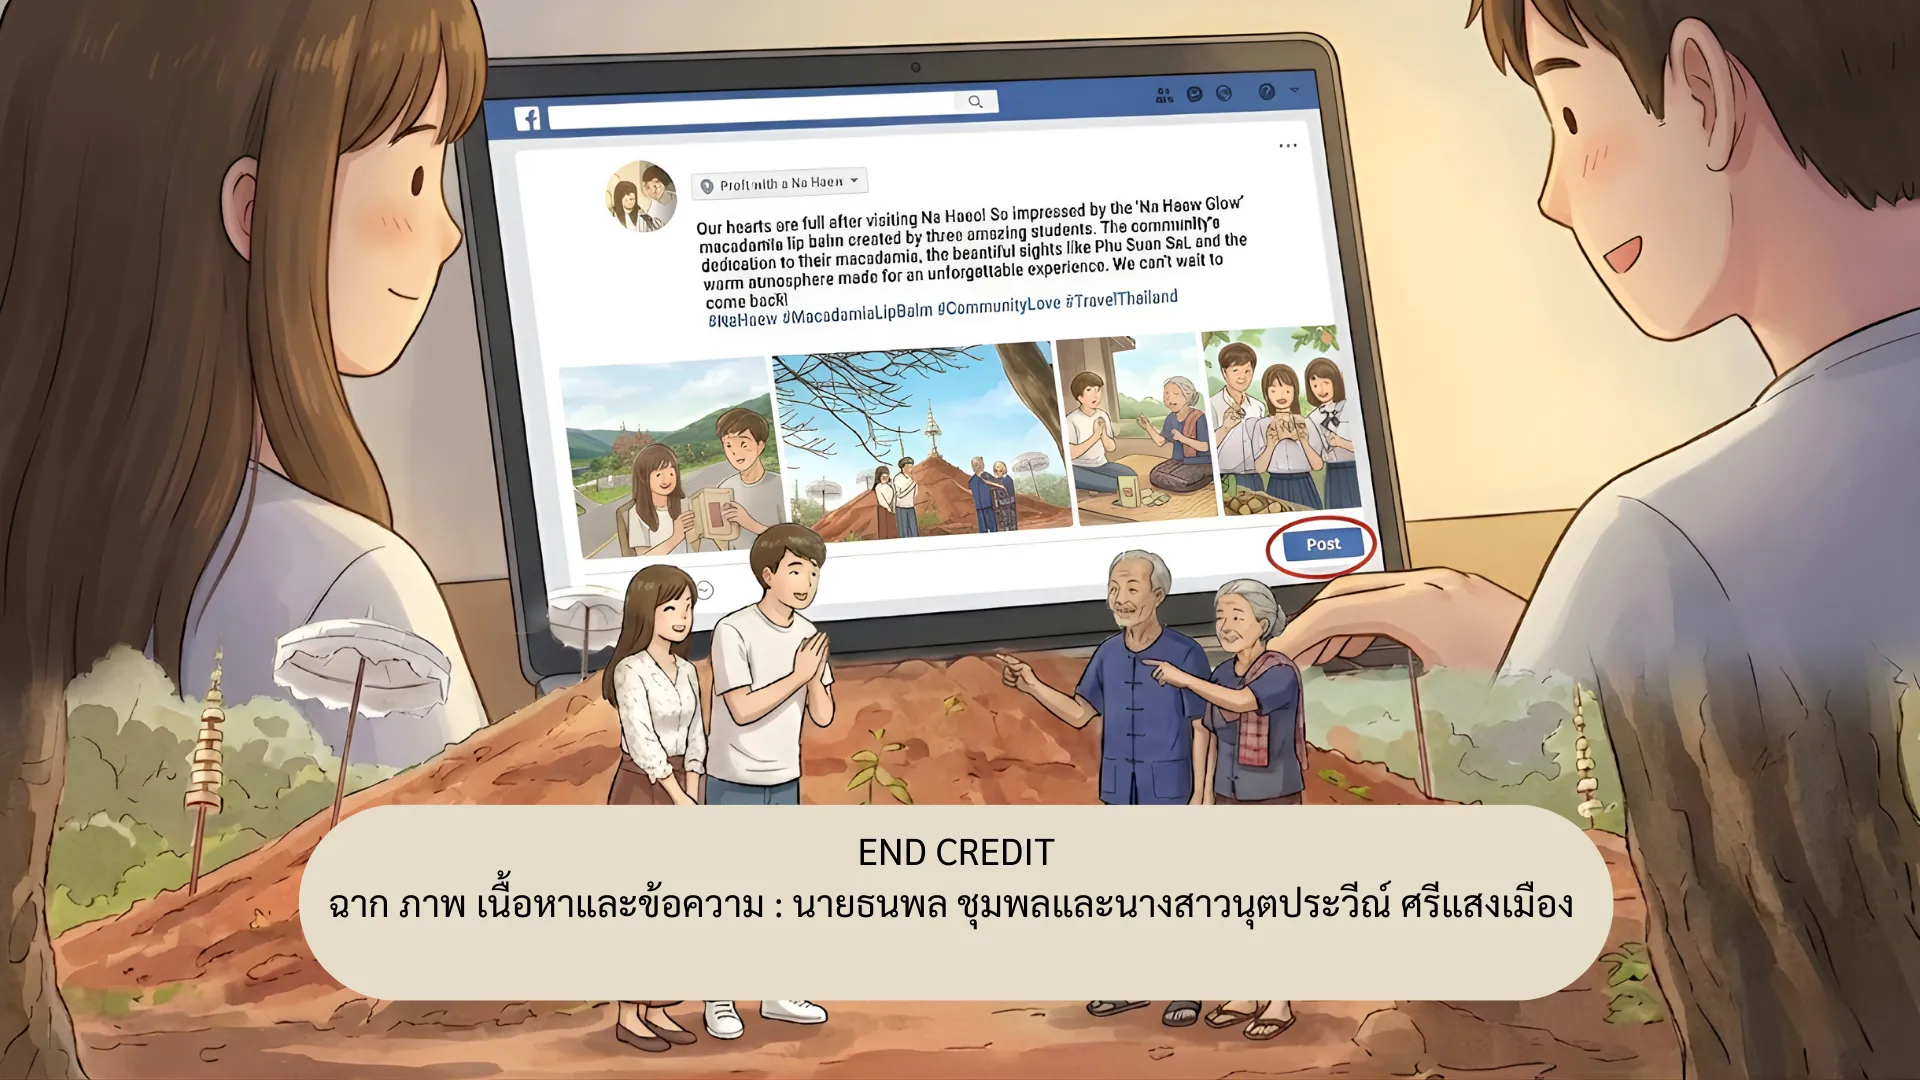
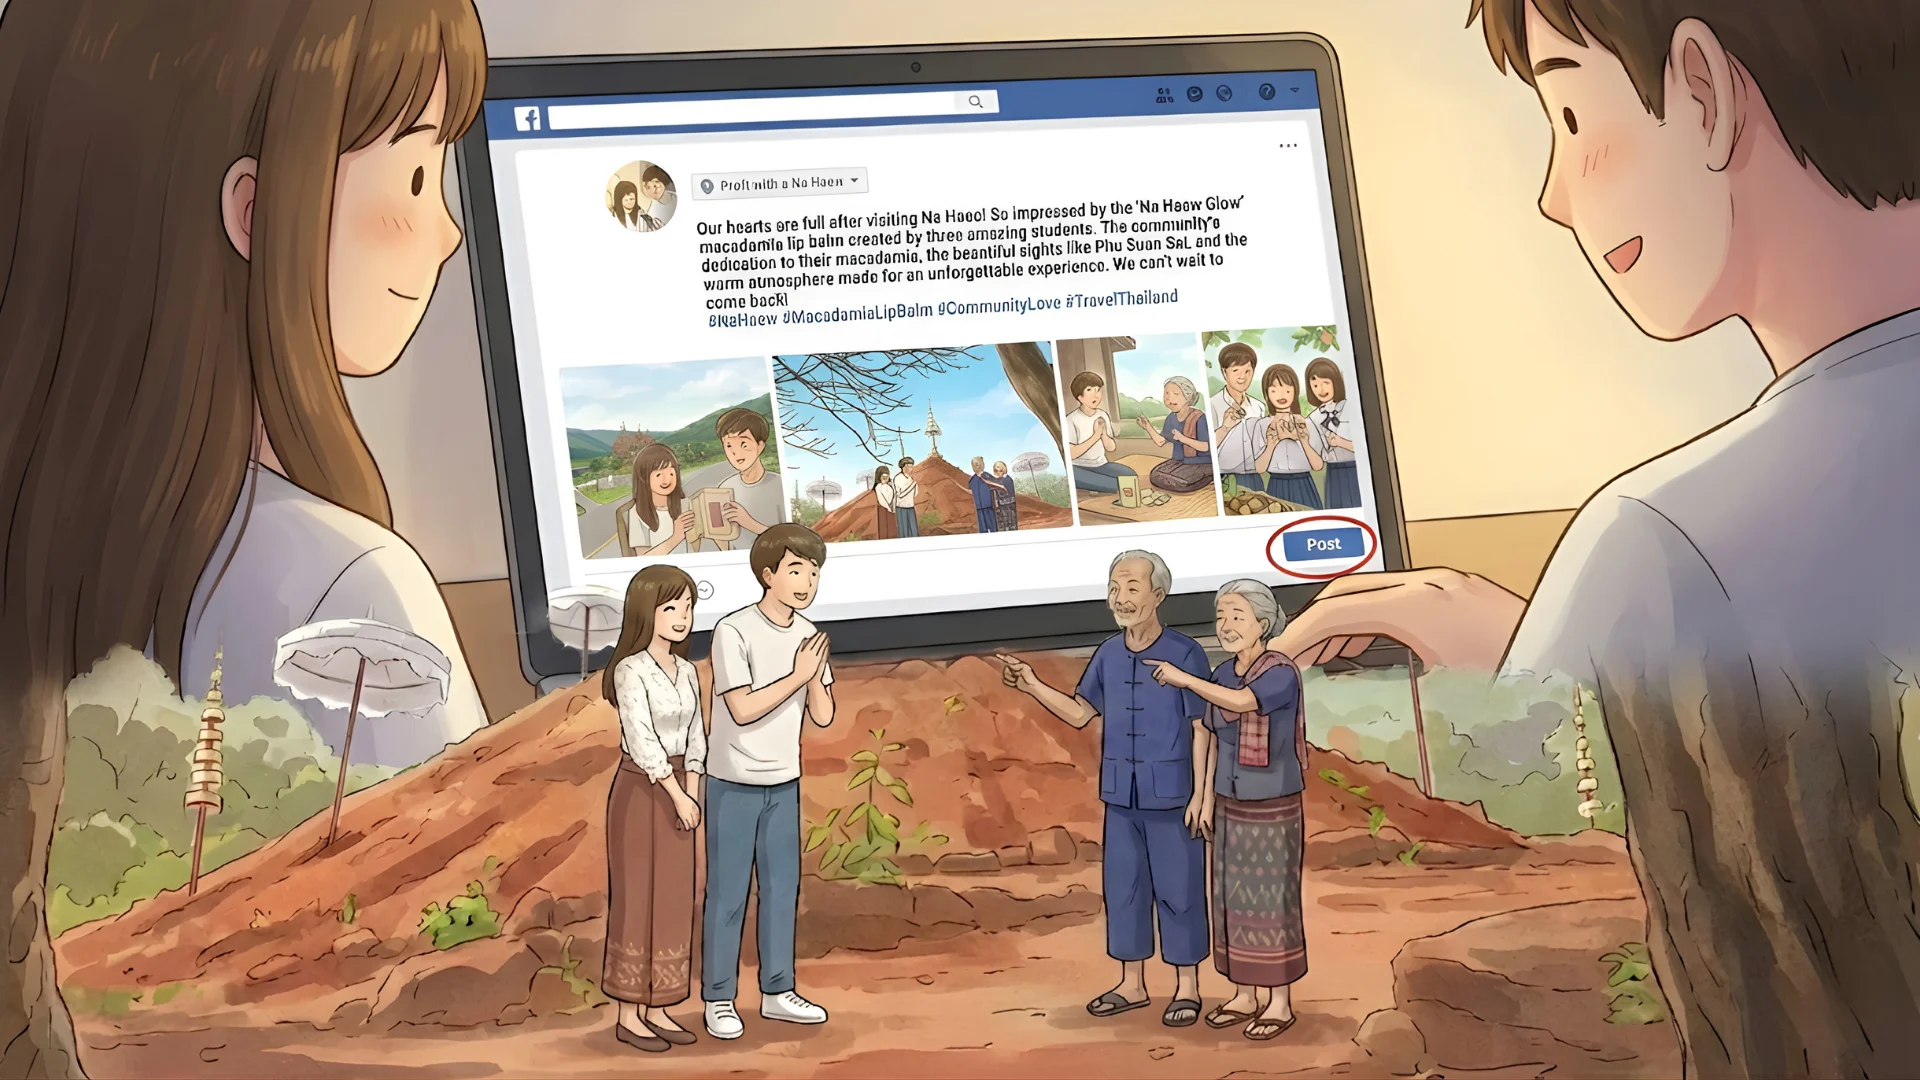
finish

Changed region(s): [[0.1562, 0.7333, 0.8438, 0.9472], [0.4375, 0.1833, 0.625, 0.2444]]

diff --git a/frontend/src/pages/StoryPage.jsx b/frontend/src/pages/StoryPage.jsx
@@ -1,7 +1,7 @@
 import { useState, useRef, useEffect, useCallback } from 'react';
 
 // Total number of scenes
-const TOTAL_SCENES = 19;
+const TOTAL_SCENES = 20;
 
 // Get image path (WebP version)
 const getImagePath = (sceneNum) => `/images/scene/scene/${sceneNum}.webp`;
@@ -214,6 +214,7 @@ export default function StoryPage() {
     const [showControls, setShowControls] = useState(true);
     const [activeHotspot, setActiveHotspot] = useState(null);
     const [zoomedImage, setZoomedImage] = useState(null);
+    const [showHotspotTutorial, setShowHotspotTutorial] = useState(true);
     const touchStartX = useRef(0);
     const hideControlsTimer = useRef(null);
     const containerRef = useRef(null);
@@ -397,43 +398,114 @@ export default function StoryPage() {
             onMouseMove={handleInteraction}
             onClick={handleInteraction}
         >
-            {/* Scene Image with Slide Animation + Swipe Offset */}
-            <div
-                className={`absolute inset-0 flex items-center justify-center transition-transform ${isSwiping ? 'duration-0' : 'duration-300'} ease-out ${slideDirection}`}
-                style={{ transform: isSwiping ? `translateX(${swipeOffset}px)` : undefined }}
-            >
-                <img
-                    src={getImagePath(currentScene)}
-                    alt={`Scene ${currentScene}`}
-                    className="w-full h-full object-contain"
-                    loading="lazy"
-                />
-
-                {/* Hotspots for current scene */}
-                {currentHotspots.map((hotspot) => (
-                    <button
-                        key={hotspot.id}
-                        onClick={(e) => handleHotspotClick(e, hotspot)}
-                        className="absolute cursor-pointer group z-30"
-                        style={{
-                            top: hotspot.position.top,
-                            left: hotspot.position.left,
-                            width: hotspot.size.width,
-                            height: hotspot.size.height,
-                        }}
-                    >
-                        {/* Water Ripple Effect - responsive size */}
-                        <div className="absolute inset-0 flex items-center justify-center pointer-events-none">
-                            {/* Ripple rings - smaller base size for portrait */}
-                            <div className="absolute w-12 h-12 sm:w-16 sm:h-16 rounded-full border-2 sm:border-4 border-white/50 backdrop-blur-[1px] animate-ripple-1"></div>
-                            <div className="absolute w-12 h-12 sm:w-16 sm:h-16 rounded-full border-2 sm:border-4 border-white/40 backdrop-blur-[1px] animate-ripple-2"></div>
-                            <div className="absolute w-12 h-12 sm:w-16 sm:h-16 rounded-full border-2 sm:border-4 border-white/30 animate-ripple-3"></div>
-                            {/* Center pulse */}
-                            <div className="relative w-4 h-4 sm:w-5 sm:h-5 rounded-full bg-white/70 shadow-lg pointer-events-auto animate-pulse-glow"></div>
+            {/* Scene 20 - Special End Credits Layout */}
+            {currentScene === 20 ? (
+                <div
+                    className={`absolute inset-0 flex items-center justify-center bg-gradient-to-b from-[#1a1a2e] to-[#16213e] transition-transform ${isSwiping ? 'duration-0' : 'duration-300'} ease-out ${slideDirection}`}
+                    style={{ transform: isSwiping ? `translateX(${swipeOffset}px)` : undefined }}
+                >
+                    <div className="flex flex-col md:flex-row items-center justify-center gap-6 md:gap-12 p-6 max-w-5xl w-full">
+                        {/* Product Image - Portrait */}
+                        <div className="flex-shrink-0">
+                            <img
+                                src={getImagePath(20)}
+                                alt="Na Haeo Glow Product"
+                                className="h-[50vh] md:h-[70vh] w-auto object-contain rounded-2xl shadow-2xl"
+                            />
                         </div>
-                    </button>
-                ))}
-            </div>
+
+                        {/* End Credits */}
+                        <div className="text-white text-center md:text-left space-y-6">
+                            <h2 className="text-2xl md:text-3xl font-bold text-transparent bg-clip-text bg-gradient-to-r from-[#FFD1DC] to-[#FFB6C1]">
+                                Credits
+                            </h2>
+
+                            {/* Team 1 */}
+                            <div className="space-y-2">
+                                <h3 className="font-semibold text-[#FFB6C1] text-sm md:text-base">ทีมออกแบบบรรจุภัณฑ์และสื่อประชาสัมพันธ์</h3>
+                                <div className="text-xs md:text-sm text-gray-300 space-y-1">
+                                    <p>นายณัฐวุฒิ นาพันผล : Web Dev</p>
+                                    <p>นายธนพล ชุมพล : ผู้จัดทำ Story</p>
+                                    <p>นางสาวนุตประวีณ์ ศรีแสงเมือง : จัดทำภาพ</p>
+                                </div>
+                            </div>
+
+                            {/* Team 2 */}
+                            <div className="space-y-2">
+                                <h3 className="font-semibold text-[#FFB6C1] text-sm md:text-base">ทีมวิจัยและพัฒนาผลิตภัณฑ์</h3>
+                                <div className="text-xs md:text-sm text-gray-300 space-y-1">
+                                    <p>นางสาวปิยะธิดาภรณ์ จันทะคุณ</p>
+                                    <p>นางสาวสิรภัทร แก้วสุวรรณ</p>
+                                    <p>นางสาวสุวิเนธ จันทะคุณ</p>
+                                </div>
+                            </div>
+
+                            <div className="pt-4">
+                                <p className="text-xs text-gray-500">© 2026 Na Haeo Glow</p>
+                            </div>
+                        </div>
+                    </div>
+                </div>
+            ) : (
+                /* Normal Scene Layout */
+                <div
+                    className={`absolute inset-0 flex items-center justify-center transition-transform ${isSwiping ? 'duration-0' : 'duration-300'} ease-out ${slideDirection}`}
+                    style={{ transform: isSwiping ? `translateX(${swipeOffset}px)` : undefined }}
+                >
+                    <img
+                        src={getImagePath(currentScene)}
+                        alt={`Scene ${currentScene}`}
+                        className="w-full h-full object-contain"
+                        loading="lazy"
+                    />
+
+
+                    {/* Hotspots for current scene */}
+                    {currentHotspots.map((hotspot) => (
+                        <button
+                            key={hotspot.id}
+                            onClick={(e) => handleHotspotClick(e, hotspot)}
+                            className="absolute cursor-pointer group z-30"
+                            style={{
+                                top: hotspot.position.top,
+                                left: hotspot.position.left,
+                                width: hotspot.size.width,
+                                height: hotspot.size.height,
+                            }}
+                        >
+                            {/* Water Ripple Effect - responsive size */}
+                            <div className="absolute inset-0 flex items-center justify-center pointer-events-none">
+                                {/* Ripple rings - smaller base size for portrait */}
+                                <div className="absolute w-12 h-12 sm:w-16 sm:h-16 rounded-full border-2 sm:border-4 border-white/50 backdrop-blur-[1px] animate-ripple-1"></div>
+                                <div className="absolute w-12 h-12 sm:w-16 sm:h-16 rounded-full border-2 sm:border-4 border-white/40 backdrop-blur-[1px] animate-ripple-2"></div>
+                                <div className="absolute w-12 h-12 sm:w-16 sm:h-16 rounded-full border-2 sm:border-4 border-white/30 animate-ripple-3"></div>
+                                {/* Center pulse */}
+                                <div className="relative w-4 h-4 sm:w-5 sm:h-5 rounded-full bg-white/70 shadow-lg pointer-events-auto animate-pulse-glow"></div>
+                            </div>
+                        </button>
+                    ))}
+
+                    {/* Hotspot Tutorial - show on scene 2 */}
+                    {currentScene === 2 && showHotspotTutorial && currentHotspots.length > 0 && !activeHotspot && (
+                        <div
+                            className="absolute z-40 animate-bounce-slow"
+                            style={{
+                                top: 'calc(58% - 60px)',
+                                left: 'calc(42% + 20px)',
+                            }}
+                            onClick={() => setShowHotspotTutorial(false)}
+                        >
+                            <div className="bg-white/95 backdrop-blur-sm px-3 py-2 rounded-xl shadow-lg border border-pink-200 relative">
+                                <p className="text-sm font-medium text-gray-800 whitespace-nowrap">
+                                    👆 แตะเพื่อดูข้อมูลเพิ่มเติม
+                                </p>
+                                {/* Arrow pointing to hotspot */}
+                                <div className="absolute -bottom-2 left-0 w-3 h-3 bg-white/95 border-b border-l border-pink-200 transform rotate-[-45deg]"></div>
+                            </div>
+                        </div>
+                    )}
+                </div>
+            )}
 
             {/* Hotspot Modal */}
             {activeHotspot && (
@@ -470,16 +542,16 @@ export default function StoryPage() {
                         <div className="p-4 space-y-4">
                             {/* Image Grid - LINE style (compact) */}
                             {activeHotspot.content.images && activeHotspot.content.images.length > 0 && (
-                                <div className={`grid gap-1 rounded-xl overflow-hidden max-h-40 ${activeHotspot.content.images.length === 1 ? 'grid-cols-1' :
-                                    activeHotspot.content.images.length === 2 ? 'grid-cols-2' :
+                                <div className={`grid gap-1 rounded-xl overflow-hidden ${activeHotspot.content.images.length === 1 ? 'grid-cols-1 max-h-60' : 'max-h-40'
+                                    } ${activeHotspot.content.images.length === 2 ? 'grid-cols-2' :
                                         activeHotspot.content.images.length === 3 ? 'grid-cols-3' :
                                             activeHotspot.content.images.length === 4 ? 'grid-cols-4' :
-                                                'grid-cols-5'
+                                                activeHotspot.content.images.length >= 5 ? 'grid-cols-5' : ''
                                     }`}>
                                     {activeHotspot.content.images.map((img, idx) => (
                                         <div
                                             key={idx}
-                                            className={`overflow-hidden cursor-pointer ${activeHotspot.content.images.length === 1 ? 'aspect-video' :
+                                            className={`overflow-hidden cursor-pointer ${activeHotspot.content.images.length === 1 ? 'aspect-[3/4]' :
                                                 activeHotspot.content.images.length === 3 && idx === 0 ? 'row-span-2 aspect-square' :
                                                     'aspect-square'
                                                 }`}
@@ -716,6 +788,15 @@ export default function StoryPage() {
                 @keyframes fadeIn {
                     from { opacity: 0; transform: scale(0.95); }
                     to { opacity: 1; transform: scale(1); }
+                }
+
+                @keyframes bounceSlow {
+                    0%, 100% { transform: translateY(0); }
+                    50% { transform: translateY(-8px); }
+                }
+
+                .animate-bounce-slow {
+                    animation: bounceSlow 1.5s ease-in-out infinite;
                 }
 
                 @keyframes swipeLeftAnim {
